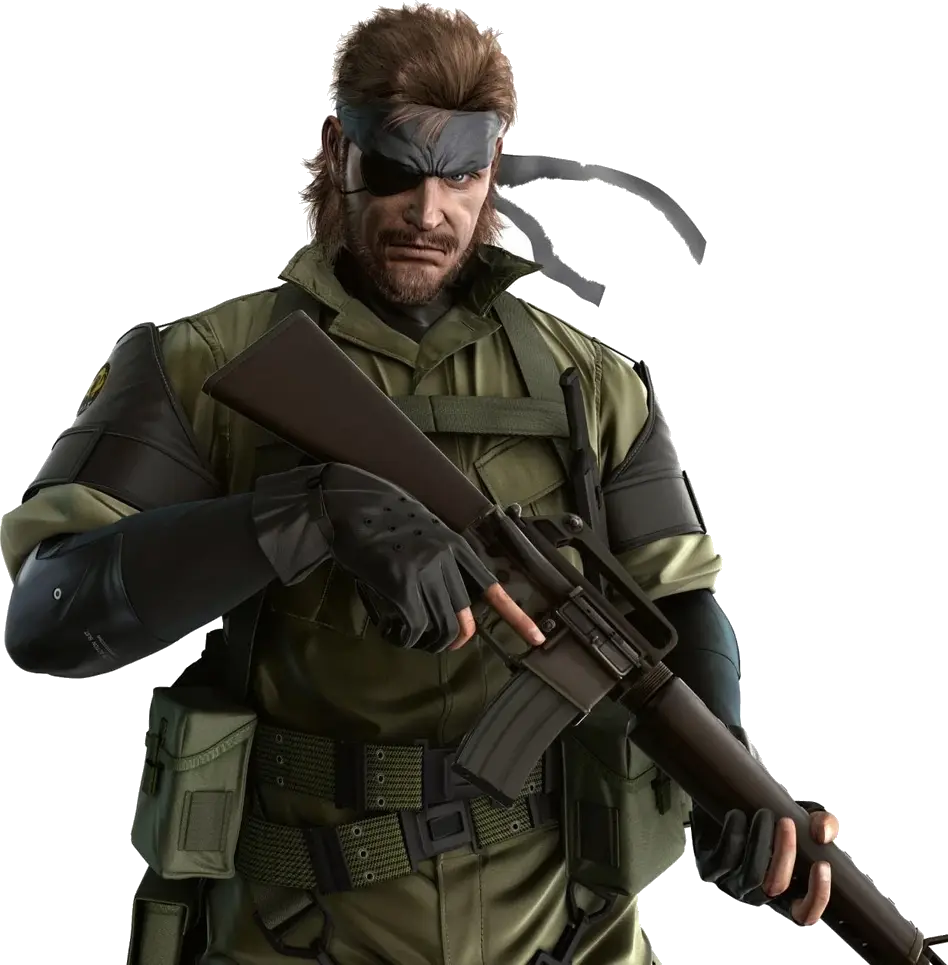
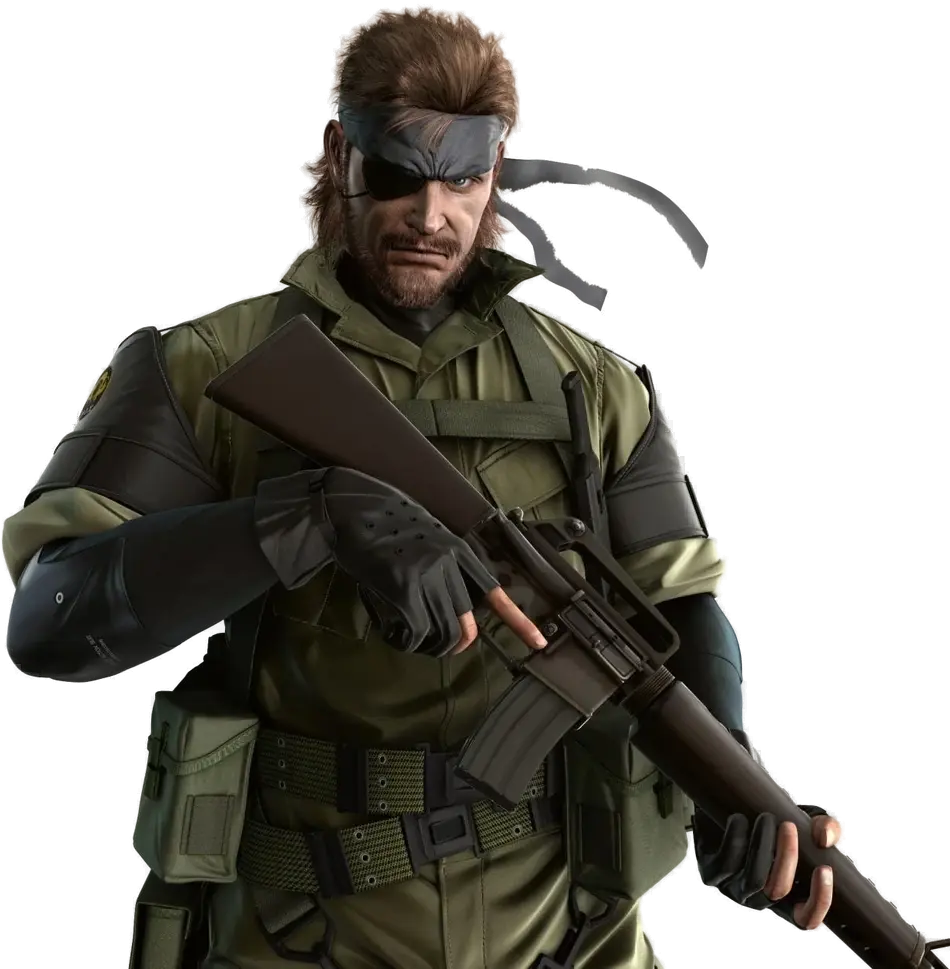
Recortes con rembg, juego exacto por personaje, ojito, foto editable y nombre sin mayúsculas
- Snake, Leon y Link recortados con rembg (isnet + alpha matting): sin halo blanco.
- Pie de cada personaje con su juego exacto.
- Mostrar/ocultar contraseña en ingreso y registro.
- @ del alias alineada; nombre del perfil sin text-transform.
- Avatar propio editable desde el perfil (hover, foco o botón táctil).

Claude-Session: https://claude.ai/code/session_011G6A3titxtgy2bnXnP8jjQ

diff --git a/my-react-app/src/pages/Profile.jsx b/my-react-app/src/pages/Profile.jsx
@@ -1,4 +1,4 @@
-import { useState } from 'react'
+import { useRef, useState } from 'react'
 import { Link, useParams, useSearchParams } from 'react-router'
 import { useMutation, useQueryClient } from '@tanstack/react-query'
 import Avatar from '../components/Avatar.jsx'
@@ -10,10 +10,11 @@ import { useAuth } from '../context/AuthContext.jsx'
 import { useToast } from '../context/ToastContext.jsx'
 import { firebaseReady } from '../lib/firebase.js'
 import { formatAverage, formatDate, formatMonth, gamePath, rawgImage } from '../lib/format.js'
-import { invalidateReviewData, useDocumentTitle, useLibrary, useProfileByHandle, useUserReviews } from '../lib/hooks.js'
+import { invalidateProfileData, invalidateReviewData, useDocumentTitle, useLibrary, useProfileByHandle, useUserReviews } from '../lib/hooks.js'
 import { MAX_FEATURED, STATUSES, statusLabel } from '../lib/library.js'
 import { useLibraryActions } from '../lib/libraryActions.js'
-import { firestoreMessage } from '../lib/profiles.js'
+import { fileToAvatar } from '../lib/image.js'
+import { firestoreMessage, updateProfile } from '../lib/profiles.js'
 import { deleteReview } from '../lib/reviews.js'
 
 const FILTERS = [{ value: 'all', label: 'Todos' }, ...STATUSES, { value: 'favorites', label: 'Favoritos' }]
@@ -44,6 +45,45 @@ function ShareButton({ profile }) {
       </svg>
       Compartir perfil
     </button>
+  )
+}
+
+// En el perfil propio, el avatar se puede cambiar al pasar el mouse o con el teclado.
+function EditableAvatar({ profile }) {
+  const notify = useToast()
+  const queryClient = useQueryClient()
+  const inputRef = useRef(null)
+  const [busy, setBusy] = useState(false)
+
+  const onFile = async (e) => {
+    const file = e.target.files?.[0]
+    e.target.value = ''
+    if (!file || busy) return
+    setBusy(true)
+    try {
+      const avatar = await fileToAvatar(file)
+      await updateProfile(profile.uid, profile, { avatar })
+      invalidateProfileData(queryClient)
+      notify('Foto de perfil actualizada.')
+    } catch (err) {
+      notify(err?.code ? firestoreMessage(err) : err.message, 'error')
+    } finally {
+      setBusy(false)
+    }
+  }
+
+  return (
+    <div className={`avatar-editable ${busy ? 'is-busy' : ''}`}>
+      <Avatar profile={profile} size={132} className="profile-hero__avatar" />
+      <button type="button" className="avatar-editable__btn" onClick={() => inputRef.current?.click()} disabled={busy}>
+        <svg viewBox="0 0 24 24" aria-hidden="true">
+          <path d="M4 8h3l2-3h6l2 3h3v11H4z" fill="none" stroke="currentColor" strokeWidth="1.8" strokeLinejoin="round" />
+          <circle cx="12" cy="13" r="3.5" fill="none" stroke="currentColor" strokeWidth="1.8" />
+        </svg>
+        <span>{busy ? 'Subiendo…' : 'Cambiar foto'}</span>
+      </button>
+      <input ref={inputRef} type="file" accept="image/png,image/jpeg,image/webp" className="sr-only" tabIndex={-1} onChange={onFile} aria-label="Elegir foto de perfil" />
+    </div>
   )
 }
 
@@ -216,7 +256,11 @@ export default function Profile() {
       <header className="profile-hero">
         <div className={`profile-hero__cover ${cover ? '' : 'is-default'}`} style={cover ? { backgroundImage: `url("${cover}")` } : undefined} aria-hidden="true" />
         <div className="container profile-hero__inner">
-          <Avatar profile={profile} size={132} className="profile-hero__avatar" />
+          {isOwner ? (
+            <EditableAvatar profile={profile} />
+          ) : (
+            <Avatar profile={profile} size={132} className="profile-hero__avatar" />
+          )}
           <div className="profile-hero__text">
             <h1>{profile.displayName}</h1>
             <p className="profile-hero__handle">

diff --git a/my-react-app/src/pages/Auth.jsx b/my-react-app/src/pages/Auth.jsx
@@ -34,7 +34,9 @@ function AuthShell({ variant = 'login', docTitle, title, lead, children, footer 
   )
 }
 
-function Field({ id, label, error, hint, prefix, ...props }) {
+function Field({ id, label, error, hint, prefix, reveal, ...props }) {
+  const [visible, setVisible] = useState(false)
+  if (reveal) props.type = visible ? 'text' : 'password'
   const input = (
     <input id={id} aria-invalid={error ? 'true' : undefined} aria-describedby={error ? `${id}-err` : hint ? `${id}-hint` : undefined} {...props} />
   )
@@ -45,6 +47,18 @@ function Field({ id, label, error, hint, prefix, ...props }) {
         <div className="input-prefix">
           <span aria-hidden="true">{prefix}</span>
           {input}
+        </div>
+      ) : reveal ? (
+        <div className="input-reveal">
+          {input}
+          <button type="button" className="input-reveal__btn" onClick={() => setVisible((v) => !v)} aria-pressed={visible}>
+            <svg viewBox="0 0 24 24" aria-hidden="true">
+              <path d="M2 12s3.5-7 10-7 10 7 10 7-3.5 7-10 7S2 12 2 12z" fill="none" stroke="currentColor" strokeWidth="1.8" />
+              <circle cx="12" cy="12" r="3" fill="none" stroke="currentColor" strokeWidth="1.8" />
+              {visible && <path d="M4 4l16 16" stroke="currentColor" strokeWidth="1.8" strokeLinecap="round" />}
+            </svg>
+            <span className="sr-only">{visible ? 'Ocultar contraseña' : 'Mostrar contraseña'}</span>
+          </button>
         </div>
       ) : (
         input
@@ -101,7 +115,7 @@ export function Login() {
     >
       <form className="form" onSubmit={onSubmit} noValidate>
         <Field id="login-email" label="Correo electrónico" type="email" autoComplete="email" value={email} onChange={(e) => setEmail(e.target.value)} required />
-        <Field id="login-password" label="Contraseña" type="password" autoComplete="current-password" value={password} onChange={(e) => setPassword(e.target.value)} required />
+        <Field id="login-password" label="Contraseña" reveal autoComplete="current-password" value={password} onChange={(e) => setPassword(e.target.value)} required />
         {error && <p className="form-error form-error--block" role="alert">{error}</p>}
         <button type="submit" className="btn btn--primary btn--block" disabled={busy}>
           {busy ? 'Ingresando…' : 'Ingresar'}
@@ -175,8 +189,8 @@ export function Register() {
         </div>
         <Field id="reg-email" label="Correo electrónico" type="email" value={form.email} onChange={set('email')} autoComplete="email" error={errors.email} />
         <div className="form__row">
-          <Field id="reg-pass" label="Contraseña" type="password" value={form.password} onChange={set('password')} autoComplete="new-password" error={errors.password} hint="Mínimo 6 caracteres." />
-          <Field id="reg-confirm" label="Repetir contraseña" type="password" value={form.confirm} onChange={set('confirm')} autoComplete="new-password" error={errors.confirm} />
+          <Field id="reg-pass" label="Contraseña" reveal value={form.password} onChange={set('password')} autoComplete="new-password" error={errors.password} hint="Mínimo 6 caracteres." />
+          <Field id="reg-confirm" label="Repetir contraseña" reveal value={form.confirm} onChange={set('confirm')} autoComplete="new-password" error={errors.confirm} />
         </div>
         {errors.form && <p className="form-error form-error--block" role="alert">{errors.form}</p>}
         <button type="submit" className="btn btn--primary btn--block" disabled={busy}>

diff --git a/my-react-app/src/index.css b/my-react-app/src/index.css
@@ -957,8 +957,8 @@ fieldset legend {
 
 .input-prefix > span {
   padding-left: 14px;
-  font-family: var(--font-mono);
   color: var(--muted);
+  line-height: 1;
 }
 
 .field .input-prefix input {
@@ -970,6 +970,97 @@ fieldset legend {
 
 .field .input-prefix input:focus-visible {
   box-shadow: none;
+}
+
+.input-reveal {
+  position: relative;
+}
+
+.field .input-reveal input {
+  padding-right: 48px;
+}
+
+.input-reveal__btn {
+  position: absolute;
+  top: 50%;
+  right: 6px;
+  transform: translateY(-50%);
+  width: 36px;
+  height: 36px;
+  display: grid;
+  place-items: center;
+  border: 0;
+  border-radius: 8px;
+  background: transparent;
+  color: var(--muted);
+  cursor: pointer;
+}
+
+.input-reveal__btn:hover,
+.input-reveal__btn[aria-pressed='true'] {
+  color: var(--text);
+  background: var(--surface-2);
+}
+
+.input-reveal__btn svg {
+  width: 20px;
+  height: 20px;
+}
+
+.avatar-editable {
+  position: relative;
+  border-radius: 50%;
+  flex-shrink: 0;
+}
+
+.avatar-editable__btn {
+  position: absolute;
+  inset: 4px;
+  border-radius: 50%;
+  border: 0;
+  display: grid;
+  place-content: center;
+  justify-items: center;
+  gap: 4px;
+  background: rgba(18, 19, 20, 0.72);
+  color: var(--text);
+  font-size: 0.8rem;
+  font-weight: 600;
+  cursor: pointer;
+  opacity: 0;
+  transition: opacity 0.15s;
+}
+
+.avatar-editable__btn svg {
+  width: 26px;
+  height: 26px;
+}
+
+.avatar-editable:hover .avatar-editable__btn,
+.avatar-editable__btn:focus-visible,
+.avatar-editable.is-busy .avatar-editable__btn {
+  opacity: 1;
+}
+
+/* En pantallas táctiles no hay hover: se muestra un indicador pequeño. */
+@media (hover: none) {
+  .avatar-editable__btn {
+    opacity: 1;
+    inset: auto 0 0 auto;
+    width: 38px;
+    height: 38px;
+    background: var(--lime);
+    color: var(--ink-on-lime);
+  }
+
+  .avatar-editable__btn span {
+    display: none;
+  }
+
+  .avatar-editable__btn svg {
+    width: 20px;
+    height: 20px;
+  }
 }
 
 .field__hint {
@@ -2301,11 +2392,11 @@ fieldset {
   padding-bottom: 6px;
 }
 
+/* El nombre se muestra tal como lo escribió la persona (sin forzar mayúsculas). */
 .profile-hero__text h1 {
   font-size: clamp(2.2rem, 5vw, 3.6rem);
   font-weight: 800;
   font-stretch: 82%;
-  text-transform: uppercase;
   line-height: 0.95;
   overflow-wrap: anywhere;
 }

diff --git a/my-react-app/e2e/library.spec.js b/my-react-app/e2e/library.spec.js
@@ -163,3 +163,30 @@ test.describe('biblioteca personal y perfil', () => {
     expect(overflow).toBeLessThanOrEqual(0)
   })
 })
+
+test('perfil propio: cambiar la foto desde el avatar y nombre sin forzar mayúsculas', async ({ page }) => {
+  await mockRawg(page)
+  const user = await register(page, { name: 'santy minúsculas' })
+  await expect(page).toHaveURL(new RegExp(`/u/${user.handle}$`))
+  // El nombre se ve tal cual se escribió (sin text-transform).
+  const h1 = page.getByRole('heading', { level: 1 })
+  await expect(h1).toHaveText('santy minúsculas')
+  expect(await h1.evaluate((el) => getComputedStyle(el).textTransform)).toBe('none')
+  const png = Buffer.from(
+    await page.evaluate(() => {
+      const c = document.createElement('canvas')
+      c.width = 200
+      c.height = 200
+      c.getContext('2d').fillRect(0, 0, 200, 200)
+      return c.toDataURL('image/png').split(',')[1]
+    }),
+    'base64',
+  )
+  await page.locator('.avatar-editable').hover()
+  await expect(page.getByRole('button', { name: 'Cambiar foto' })).toBeVisible()
+  await page.getByLabel('Elegir foto de perfil').setInputFiles({ name: 'yo.png', mimeType: 'image/png', buffer: png })
+  await expect(page.getByText('Foto de perfil actualizada.')).toBeVisible()
+  await expect(page.locator('.avatar-editable img.avatar')).toBeVisible()
+  await page.reload()
+  await expect(page.locator('.avatar-editable img.avatar')).toBeVisible()
+})

diff --git a/my-react-app/e2e/reviews.spec.js b/my-react-app/e2e/reviews.spec.js
@@ -88,6 +88,12 @@ test.describe('opiniones con Firebase (emuladores)', () => {
     await page.goto('/ingresar')
     await page.getByLabel('Correo electrónico').fill('nadie@example.com')
     await page.getByLabel('Contraseña').fill('incorrecta')
+    // El “ojito” muestra y vuelve a ocultar la contraseña.
+    await expect(page.getByLabel('Contraseña')).toHaveAttribute('type', 'password')
+    await page.getByRole('button', { name: 'Mostrar contraseña' }).click()
+    await expect(page.getByLabel('Contraseña')).toHaveAttribute('type', 'text')
+    await page.getByRole('button', { name: 'Ocultar contraseña' }).click()
+    await expect(page.getByLabel('Contraseña')).toHaveAttribute('type', 'password')
     await page.getByRole('button', { name: 'Ingresar' }).click()
     await expect(page.getByText('Correo o contraseña incorrectos.')).toBeVisible()
   })

diff --git a/my-react-app/src/components/AuthArt.jsx b/my-react-app/src/components/AuthArt.jsx
@@ -3,9 +3,9 @@ import Logo from './Logo.jsx'
 
 // Personajes de las pantallas de acceso (recortes en public/personajes/).
 const LEGENDS = {
-  snake: { character: 'Naked Snake', game: 'Metal Gear Solid 3: Snake Eater' },
-  leon: { character: 'Leon S. Kennedy', game: 'Resident Evil 4' },
-  kratos: { character: 'Kratos', game: 'God of War' },
+  snake: { character: 'Big Boss', game: 'Metal Gear Solid: Peace Walker' },
+  leon: { character: 'Leon S. Kennedy', game: 'Resident Evil 4 (2023)' },
+  kratos: { character: 'Kratos', game: 'God of War (2018)' },
   link: { character: 'Link', game: 'The Legend of Zelda: Breath of the Wild' },
   batman: { character: 'Batman', game: 'Batman: Arkham City' },
   fisher: { character: 'Sam Fisher', game: 'Splinter Cell' },

diff --git a/docs/BITACORA.md b/docs/BITACORA.md
@@ -201,6 +201,15 @@ Dificultades:
 - **Alias como Instagram:** “@” fija adelante; solo letras, números, guion bajo y punto, de 3 a 30 caracteres, sin punto al inicio, al final ni dos seguidos. La regla está en la app y en `firestore.rules`.
 - Pruebas: 30 unitarias (incluye 13 de alias), 23 de reglas (incluye alias con puntos) y 20 de punta a punta.
 
+### Recortes con IA de segmentación y ajustes de formularios
+- **Mejor recorte:** el método por color (relleno desde las esquinas) dejaba un halo blanco alrededor de Snake y Leon. Se pasó a **rembg** con el modelo `isnet-general-use` y *alpha matting*, que detecta la silueta y suaviza el borde. Así se reprocesaron Snake, Leon y Link.
+- **Pie de cada personaje con su juego exacto:** Big Boss · Metal Gear Solid: Peace Walker; Leon · Resident Evil 4 (2023); Kratos · God of War (2018); Link · Breath of the Wild; Batman · Arkham City.
+- **Contraseñas con “ojito”** para mostrar u ocultar lo escrito (ingreso y registro).
+- **“@” del alias** alineada con el texto del campo.
+- **Nombre del perfil** tal como lo escribió la persona: antes se forzaba a mayúsculas por estilo.
+- **Cambiar la foto desde el perfil:** al pasar el mouse (o enfocar con el teclado) sobre el avatar propio aparece “Cambiar foto”. En pantallas táctiles se muestra un botón pequeño fijo.
+- Pruebas: 21/21 de punta a punta (nuevas: ojito, cambio de foto y nombre sin mayúsculas forzadas).
+
 ---
 
 ## Configuración pendiente (al cierre de la iteración 3)
